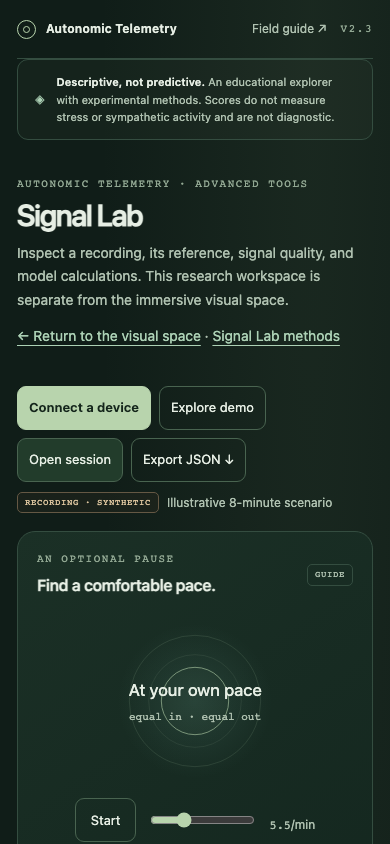
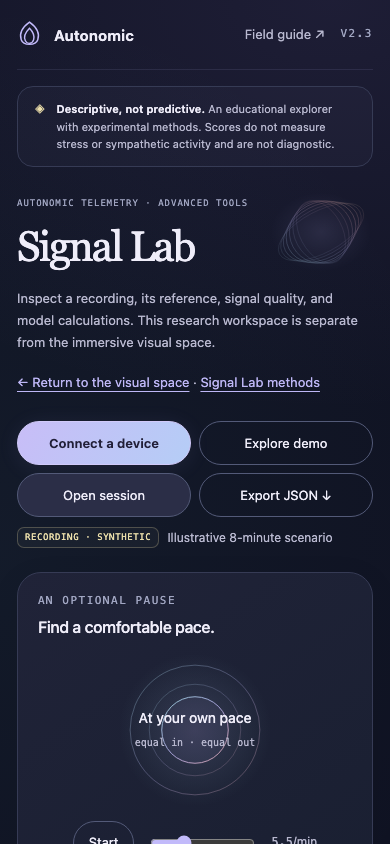
Align Signal Lab with the immersive pastel theme

diff --git a/Autonomic_Telemetry_Signal_Lab.html b/Autonomic_Telemetry_Signal_Lab.html
@@ -12,7 +12,7 @@
       http-equiv="Content-Security-Policy"
       content="default-src 'none'; script-src 'unsafe-inline'; style-src 'unsafe-inline'; img-src 'self' data:; connect-src 'none'; base-uri 'none'; form-action 'none'"
     />
-    <title>Autonomic Telemetry · Signals in context</title>
+    <title>Signal Lab · Autonomic</title>
     <style>
       :root {
         --bg: #09171c;
@@ -1919,8 +1919,174 @@
         }
       }
     </style>
+    <style id="signal-lab-theme">
+      /* The lab keeps one signal palette, independent of the hidden practice modes. */
+      @media screen {
+        body.signal-lab[data-mode] {
+          --bg: #101323;
+          --panel: #1b2033;
+          --panel2: #22263c;
+          --line: #363b55;
+          --text: #efedf9;
+          --muted: #b9b9d0;
+          --soft: #a1a6c2;
+          --teal: #a6e4ea;
+          --blue: #beb7f6;
+          --violet: #f1b0b6;
+          --amber: #eee1ac;
+          --rose: #f1b0b6;
+          --mint: #bce7c9;
+          --radius: 24px;
+          --mode-accent: #c2bafa;
+          --surface-top: #202338;
+          --surface-bottom: #191f31;
+          --surface-input: #14192b;
+          --surface-control: #2b2e47;
+          --surface-hover: #393d59;
+          --hero-glow: #9b82df18;
+          --active-bg: #343451;
+          --active-border: #a59bd4;
+          --dial-track: #373a56;
+          --button-ink: #211f38;
+          --notice-bg: #b9b7f908;
+          --field-border: #535a78;
+          background:
+            radial-gradient(ellipse 850px 550px at 85% 0, #9a7bdc1a, transparent 75%),
+            radial-gradient(ellipse 600px 700px at 0 550px, #5ecac60b, transparent 80%),
+            var(--bg);
+        }
+        .signal-lab .top { border-color: #b9b7f91c; padding: 26px 0; }
+        .signal-lab .brand { display: inline-flex; align-items: center; gap: 12px; font-size: 16px; }
+        .signal-lab .brand-flame { width: 25px; height: 29px; color: var(--mode-accent); }
+        .signal-lab nav a { font-size: 13px; }
+        .signal-lab .notice { margin-top: 22px; border-radius: 16px; }
+        .signal-lab .notice > span:first-child { color: var(--amber) !important; }
+        .signal-lab .lab-intro { position: relative; max-width: none; padding: 38px 0 8px; }
+        .signal-lab .lab-intro h1 {
+          font: 400 clamp(40px, 5vw, 56px)/1.15 Georgia, "Times New Roman", serif;
+          letter-spacing: -1.8px;
+          margin: 12px 0 16px;
+        }
+        .signal-lab .lab-intro p { max-width: 650px; font-size: 14px; }
+        .signal-lab .lab-intro p + p { margin-top: 18px; font-size: 13px; }
+        .signal-lab .lab-intro a { color: var(--blue); }
+        .signal-lab .lab-aurora { position: absolute; right: 3%; top: 22px; width: 230px; height: 180px; opacity: .8; pointer-events: none; }
+        .signal-lab .toolbar { padding: 24px 0; }
+        .signal-lab[data-mode] button { border-radius: 24px; min-height: 44px; }
+        .signal-lab[data-mode] button.primary {
+          background: linear-gradient(120deg, #c8bdf7, #b5cdf6);
+          border-color: #d1cafa;
+          box-shadow: 0 3px 22px #ab98f017;
+        }
+        .signal-lab[data-mode] button.primary:hover { background: #d2c9ff; }
+        .signal-lab[data-mode] input:not([type="range"]),
+        .signal-lab[data-mode] select,
+        .signal-lab[data-mode] textarea { border-radius: 12px; }
+        .signal-lab[data-mode] :focus-visible { outline-color: var(--mode-accent); }
+        .signal-lab .badge { border-radius: 7px; }
+        .signal-lab .badge.demo { background: #eee1ac09; border-color: #eee1ac40; }
+        .signal-lab[data-mode] .panel { box-shadow: 0 8px 30px #05081515; }
+        .signal-lab .panel-head h2 { font-weight: 500; }
+        .signal-lab .practice-workspace .pacer {
+          grid-template-columns: minmax(230px, 1fr) 190px minmax(260px, 1fr);
+          grid-template-rows: auto auto;
+          gap: 8px 24px;
+          align-items: center;
+          padding: 20px 28px;
+          text-align: left;
+        }
+        .signal-lab .pacer .panel-head { grid-column: 1; grid-row: 1; margin: 0; align-self: end; }
+        .signal-lab .pacer .panel-head .badge { display: none; }
+        .signal-lab .pacer > .small { grid-column: 1; grid-row: 2; align-self: start; margin: 0; max-width: 320px; }
+        .signal-lab .pacer .orb-stage { grid-column: 2; grid-row: 1 / 3; min-height: 150px; text-align: center; }
+        .signal-lab .pacer .orb-stage svg { width: 158px; height: 158px; }
+        .signal-lab .pacer .orb-text strong { font-size: 14px; }
+        .signal-lab .pacer .orb-text span { font-size: 10px; }
+        .signal-lab .pacer-controls { grid-column: 3; grid-row: 1 / 3; margin: 0; gap: 14px; }
+        .signal-lab .pacer-controls .small { margin: 0; }
+        .signal-lab[data-mode] .orb-stage circle[stroke] { stroke: url(#lab-breath-spectrum); opacity: .5; }
+        .signal-lab[data-mode] .orb-stage #orb { stroke: url(#lab-breath-spectrum); fill: #bcb6f90d; opacity: 1; }
+        .signal-lab[data-mode] .primary-panel {
+          background: radial-gradient(ellipse at 0 45%, #b19beb14, transparent 55%),
+            linear-gradient(135deg, var(--surface-top), var(--surface-bottom));
+          border-color: #aca0e349;
+        }
+        .signal-lab .reading .value { color: var(--mode-accent); }
+        .signal-lab #gauge-arc { stroke: var(--mode-accent); }
+        .signal-lab #gauge-dot { fill: var(--mode-accent); }
+        .signal-lab[data-mode] .signal:nth-child(1) { background: linear-gradient(145deg, #223340, #1a2434); border-color: #a6e4ea40; }
+        .signal-lab[data-mode] .signal:nth-child(2) { background: linear-gradient(145deg, #302d46, #212239); border-color: #beb7f64a; }
+        .signal-lab[data-mode] .signal:nth-child(3) { background: linear-gradient(145deg, #372b3b, #262235); border-color: #f1b0b642; }
+        .signal-lab .chart-key > span:first-child i { background: var(--mode-accent); }
+        .signal-lab .chart-key > span:nth-child(2) i { background: var(--amber) !important; }
+        .signal-lab .chart-key > span:nth-child(3) i { background: var(--teal) !important; }
+        .signal-lab[data-mode] .timeline-chart path[stroke="#8bd5c5"] { stroke: var(--mode-accent); }
+        .signal-lab[data-mode] .timeline-chart path[stroke="#b8abd5"],
+        .signal-lab[data-mode] .timeline-chart line[stroke="#b8abd5"] { stroke: var(--amber); }
+        .signal-lab .timeline-chart line[stroke="#93b8d6"] { stroke: var(--teal); }
+        .signal-lab .timeline-chart circle[fill="#93b8d6"] { fill: var(--teal); }
+        .signal-lab .timeline-chart line[stroke="#b7d6d1"] { stroke: var(--text); }
+        .signal-lab .timeline-chart rect[fill="#ddc393"] { fill: var(--amber); }
+        .signal-lab .timeline-chart rect[fill="#a2b9bb"] { fill: var(--muted); }
+        .signal-lab .summary-strip > :nth-child(1) .value { color: var(--mode-accent); }
+        .signal-lab .summary-strip > :nth-child(2) .value { color: var(--teal); }
+        .signal-lab .summary-strip > :nth-child(3) .value { color: var(--mint); }
+        .signal-lab .summary-strip > :nth-child(4) .value { color: var(--amber); }
+        .signal-lab .lower-grid > .panel:first-child { border-top-color: #bce7c966; }
+        .signal-lab .lower-grid > .panel:nth-child(2) { border-top-color: #eee1ac66; }
+        .signal-lab #portrait line { stroke: var(--field-border); }
+        .signal-lab #portrait circle { fill: var(--teal); }
+        .signal-lab #portrait text { fill: var(--muted); }
+        .signal-lab .advanced > summary { border-radius: 18px; background: #b9b7f906; }
+        .signal-lab #research-lenses { border-top-color: #f1b0b666; }
+        .signal-lab #research-lenses .research-cell { border-radius: 16px; background: #beb7f609; }
+        .signal-lab #research-lenses .research-cell:nth-child(2) strong { color: var(--blue); }
+        .signal-lab #research-lenses .research-cell:nth-child(3) strong { color: var(--violet); }
+        .signal-lab #research-lenses .research-cell:nth-child(4) strong { color: var(--mint); }
+        .signal-lab #research-lenses canvas { background: var(--surface-input); border-radius: 16px; }
+        .signal-lab[data-mode] dialog { border-radius: 24px; }
+        .signal-lab[data-mode] #device-dialog button,
+        .signal-lab[data-mode] #device-preview button { border-radius: 24px; }
+        .signal-lab[data-mode] #device-dialog .device-choices button { border-radius: 14px; }
+        .signal-lab[data-mode] #device-dialog button:focus-visible,
+        .signal-lab[data-mode] #device-preview button:focus-visible { outline-color: var(--mode-accent); }
+        .signal-lab[data-mode] #device-dialog .device-note { border-color: var(--amber); background: #eee1ac08; }
+        .signal-lab[data-mode] #device-dialog details,
+        .signal-lab[data-mode] #device-dialog .device-head { border-color: var(--line); }
+      }
+      @media screen and (max-width: 1100px) {
+        .signal-lab .lab-aurora { width: 165px; right: 0; opacity: .5; }
+        .signal-lab .lab-intro p { max-width: 70%; }
+        .signal-lab .practice-workspace .pacer { grid-template-columns: minmax(0, 1fr) 180px; gap: 6px 18px; }
+        .signal-lab .pacer .orb-stage { grid-column: 2; grid-row: 1 / 4; }
+        .signal-lab .pacer-controls { grid-column: 1; grid-row: 3; justify-content: start; margin-top: 8px; }
+      }
+      @media screen and (max-width: 640px) {
+        .signal-lab .top { padding: 20px 0; gap: 16px; }
+        .signal-lab .brand { font-size: 15px; }
+        .signal-lab nav { gap: 16px; }
+        .signal-lab .notice { margin-top: 16px; align-items: start; font-size: 11px; }
+        .signal-lab .lab-intro { padding: 30px 0 4px; }
+        .signal-lab .lab-intro h1 { font-size: 42px; }
+        .signal-lab .lab-intro p { max-width: none; font-size: 13px; }
+        .signal-lab .lab-aurora { width: 104px; height: 100px; top: 15px; opacity: .6; }
+        .signal-lab .lab-intro .eyebrow { font-size: 9px; letter-spacing: 1px; }
+        .signal-lab .toolbar > .row:first-child { display: grid; grid-template-columns: repeat(2, minmax(0, 1fr)); width: 100%; }
+        .signal-lab .toolbar button { padding: 10px 12px; }
+        .signal-lab .source-detail { gap: 8px; }
+        .signal-lab .practice-workspace .pacer { padding: 20px; gap: 10px; }
+        .signal-lab .pacer .panel-head { align-self: stretch; }
+        .signal-lab .pacer .orb-stage { width: 100%; min-height: 144px; }
+        .signal-lab .pacer-controls { justify-content: center; flex-wrap: wrap; margin: 0; }
+        .signal-lab .pacer > .small { max-width: none; text-align: center; margin: 0; }
+        .signal-lab .panel-head { flex-wrap: wrap; }
+      }
+      @media print {
+        .lab-aurora { display: none; }
+      }
+    </style>
   </head>
-  <body data-mode="rest">
+  <body class="signal-lab" data-mode="rest">
     <a class="skip" href="#main">Skip to workspace</a>
     <div class="wrap">
       <header class="top row between">
@@ -1928,12 +2094,11 @@
           href="Autonomic_Telemetry_Console.html"
           class="brand"
           style="color: var(--text); text-decoration: none"
-          ><span class="brand-mark" aria-hidden="true"></span>Autonomic
-          Telemetry</a
+          ><svg class="brand-flame" width="25" height="29" viewBox="0 0 24 28" fill="none" stroke="currentColor" stroke-width="1.4" aria-hidden="true"><path d="M12 2C5 7 2 13 4 19c2 6 14 6 16 0 2-6-1-12-8-17Z"/><path d="M12 8c-4 4-6 8-4 12s7 3 8-1c1-4-1-8-4-11Z"/></svg>Autonomic</a
         >
         <nav aria-label="Main">
           <a href="Autonomic_Telemetry_Field_Guide.html">Field guide ↗</a
-          ><a class="nav-methods" href="docs/METHODS.md">Methods</a
+          ><a class="nav-methods" href="docs/SIGNAL_LAB_METHODS.md">Methods</a
           ><span class="eyebrow">v2.3</span>
         </nav>
       </header>
@@ -2011,6 +2176,24 @@
         </p>
       </section>
       <section class="lab-intro">
+        <svg class="lab-aurora" viewBox="0 0 230 180" fill="none" aria-hidden="true">
+          <defs>
+            <linearGradient id="lab-spectrum" x1="20" y1="150" x2="210" y2="20" gradientUnits="userSpaceOnUse">
+              <stop stop-color="#a6e4ea"/><stop offset=".45" stop-color="#beb7f6"/><stop offset=".75" stop-color="#f1b0b6"/><stop offset="1" stop-color="#eee1ac"/>
+            </linearGradient>
+            <radialGradient id="lab-halo"><stop stop-color="#bcb3f2" stop-opacity=".2"/><stop offset="1" stop-color="#bcb3f2" stop-opacity="0"/></radialGradient>
+          </defs>
+          <ellipse cx="115" cy="90" rx="112" ry="88" fill="url(#lab-halo)"/>
+          <g stroke="url(#lab-spectrum)" stroke-width=".8" transform="rotate(-28 115 90)">
+            <ellipse cx="115" cy="90" rx="104" ry="46" opacity=".4"/>
+            <ellipse cx="115" cy="90" rx="97" ry="52" opacity=".5"/>
+            <ellipse cx="115" cy="90" rx="89" ry="59" opacity=".7"/>
+            <ellipse cx="115" cy="90" rx="80" ry="65" opacity=".85"/>
+            <ellipse cx="115" cy="90" rx="70" ry="69" opacity=".7"/>
+            <ellipse cx="115" cy="90" rx="59" ry="72" opacity=".5"/>
+            <ellipse cx="115" cy="90" rx="47" ry="74" opacity=".4"/>
+          </g>
+        </svg>
         <div class="eyebrow">Autonomic Telemetry · Advanced tools</div>
         <h1>Signal Lab</h1>
         <p>
@@ -2183,9 +2366,12 @@
               <svg viewBox="0 0 190 190" aria-hidden="true">
                 <defs>
                   <radialGradient id="orb-glow">
-                    <stop offset="0" stop-color="#8bd5c5" stop-opacity=".12" />
-                    <stop offset="1" stop-color="#8bd5c5" stop-opacity="0" />
+                    <stop offset="0" stop-color="#beb7f6" stop-opacity=".16" />
+                    <stop offset="1" stop-color="#a6e4ea" stop-opacity="0" />
                   </radialGradient>
+                  <linearGradient id="lab-breath-spectrum" x1="0" y1="0" x2="1" y2="1">
+                    <stop stop-color="#a6e4ea"/><stop offset=".5" stop-color="#beb7f6"/><stop offset="1" stop-color="#f1b0b6"/>
+                  </linearGradient>
                 </defs>
                 <circle cx="95" cy="95" r="92" fill="url(#orb-glow)" />
                 <circle
@@ -2644,7 +2830,7 @@
         </div>
         <p style="margin-top: 12px">
           Educational use · Experimental score and thresholds · Not a medical
-          device · Revised October 22, 2026
+          device · Revised October 23, 2026
         </p>
       </footer>
     </div>
@@ -7090,7 +7276,8 @@ python3 -m http.server 8090
         loY = Math.min(...ys),
         hiY = Math.max(...ys);
       ctx.clearRect(0, 0, 1000, 300);
-      ctx.strokeStyle = "#93b8d6";
+      const palette = getComputedStyle(document.body);
+      ctx.strokeStyle = palette.getPropertyValue("--blue").trim() || "#beb7f6";
       ctx.lineWidth = 1.7;
       ctx.beginPath();
       points.forEach((p, i) => {
@@ -7099,7 +7286,7 @@ python3 -m http.server 8090
         i ? ctx.lineTo(x, y) : ctx.moveTo(x, y);
       });
       ctx.stroke();
-      ctx.fillStyle = "#a2b9bb";
+      ctx.fillStyle = palette.getPropertyValue("--muted").trim() || "#b9b9d0";
       ctx.font = "13px system-ui";
       ctx.fillText("Standardized PCA · recording order · PC1 / PC2", 25, 25);
     }

diff --git a/research-panel.html b/research-panel.html
@@ -237,7 +237,8 @@
         loY = Math.min(...ys),
         hiY = Math.max(...ys);
       ctx.clearRect(0, 0, 1000, 300);
-      ctx.strokeStyle = "#93b8d6";
+      const palette = getComputedStyle(document.body);
+      ctx.strokeStyle = palette.getPropertyValue("--blue").trim() || "#beb7f6";
       ctx.lineWidth = 1.7;
       ctx.beginPath();
       points.forEach((p, i) => {
@@ -246,7 +247,7 @@
         i ? ctx.lineTo(x, y) : ctx.moveTo(x, y);
       });
       ctx.stroke();
-      ctx.fillStyle = "#a2b9bb";
+      ctx.fillStyle = palette.getPropertyValue("--muted").trim() || "#b9b9d0";
       ctx.font = "13px system-ui";
       ctx.fillText("Standardized PCA · recording order · PC1 / PC2", 25, 25);
     }

diff --git a/docs/VALIDATION.md b/docs/VALIDATION.md
@@ -1,4 +1,12 @@
-# Release verification — October 22, 2026
+# Release verification
+
+## Signal Lab appearance update — October 23, 2026
+
+The Lab now shares the main page's midnight palette, serif title, and rounded controls. Aqua, lavender, coral, mint, and pale gold distinguish signals and research views. The breathing guide is more compact on desktop; the analytical models, recordings, device adapters, and import/export behavior are unchanged.
+
+All 26 Signal Lab browser checks and 5 research-interface checks pass after the update. Rendered layouts were reviewed at desktop and phone sizes, with additional overflow checks at 320, 390, 768, and 1440 pixels. The pattern-shift gauge and timeline use the same color, individual signal colors remain distinct, and print retains a white background. No browser errors or external runtime requests occurred. Updated screenshots use the built-in synthetic recording.
+
+## Version 2.3.0 — October 22, 2026
 
 Version 2.3.0 passes **167 automated checks**: 47 Chromium browser checks, 33 pure research-math checks, 19 personal-arousal engine checks, and 68 Python bridge checks. Repeat with:
 
